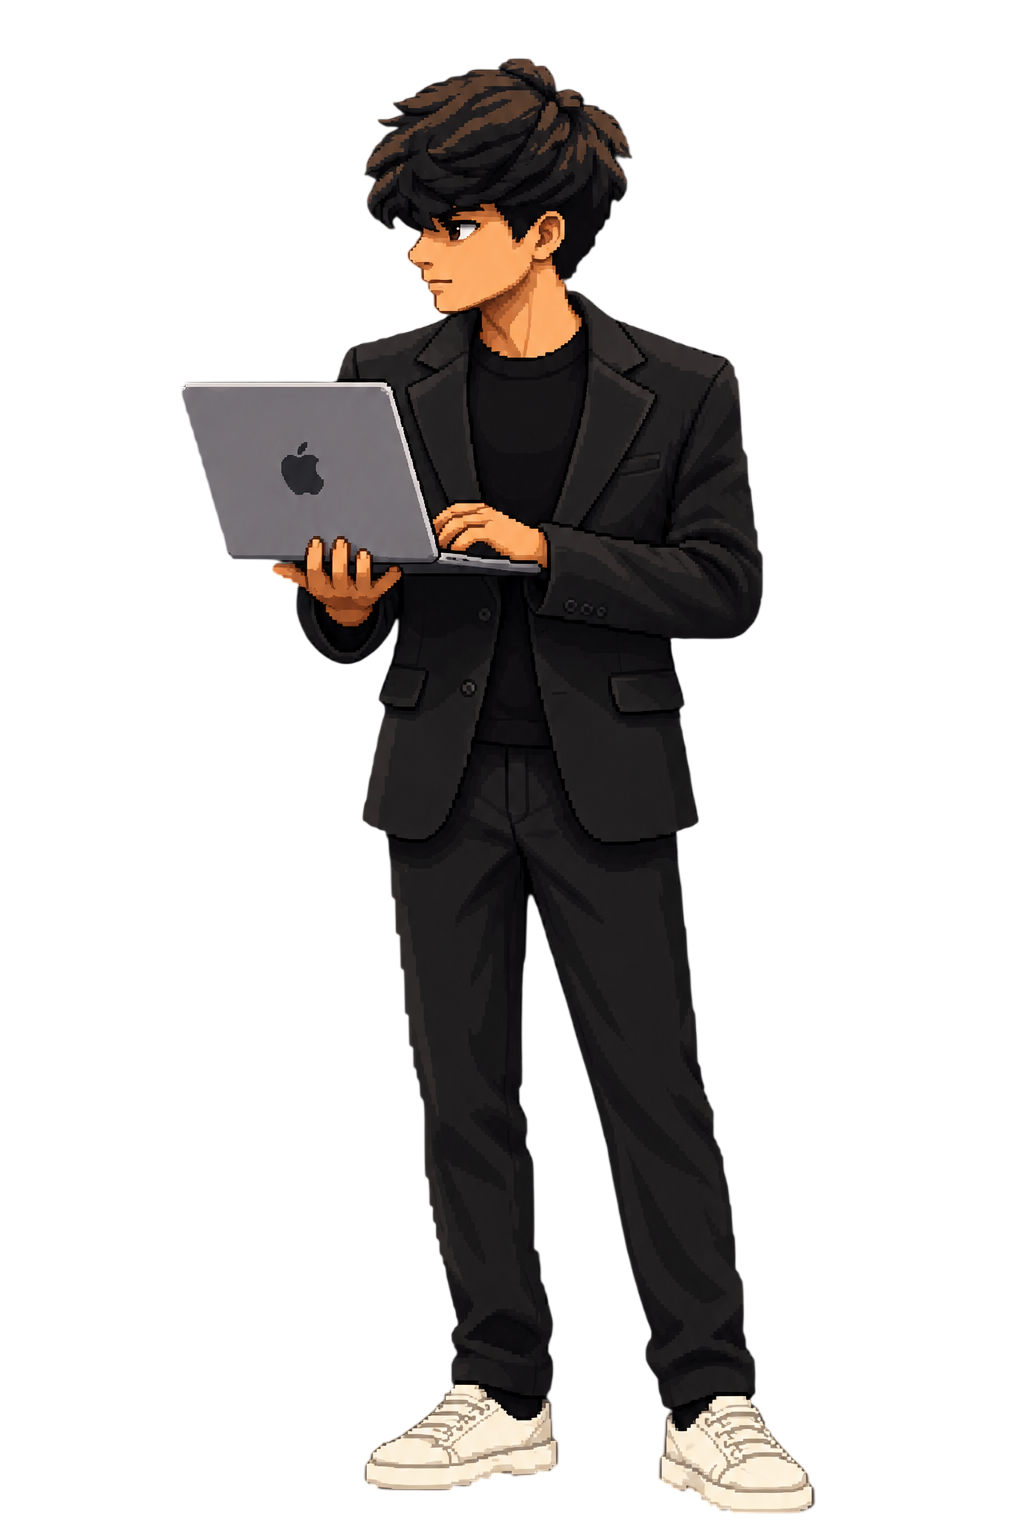
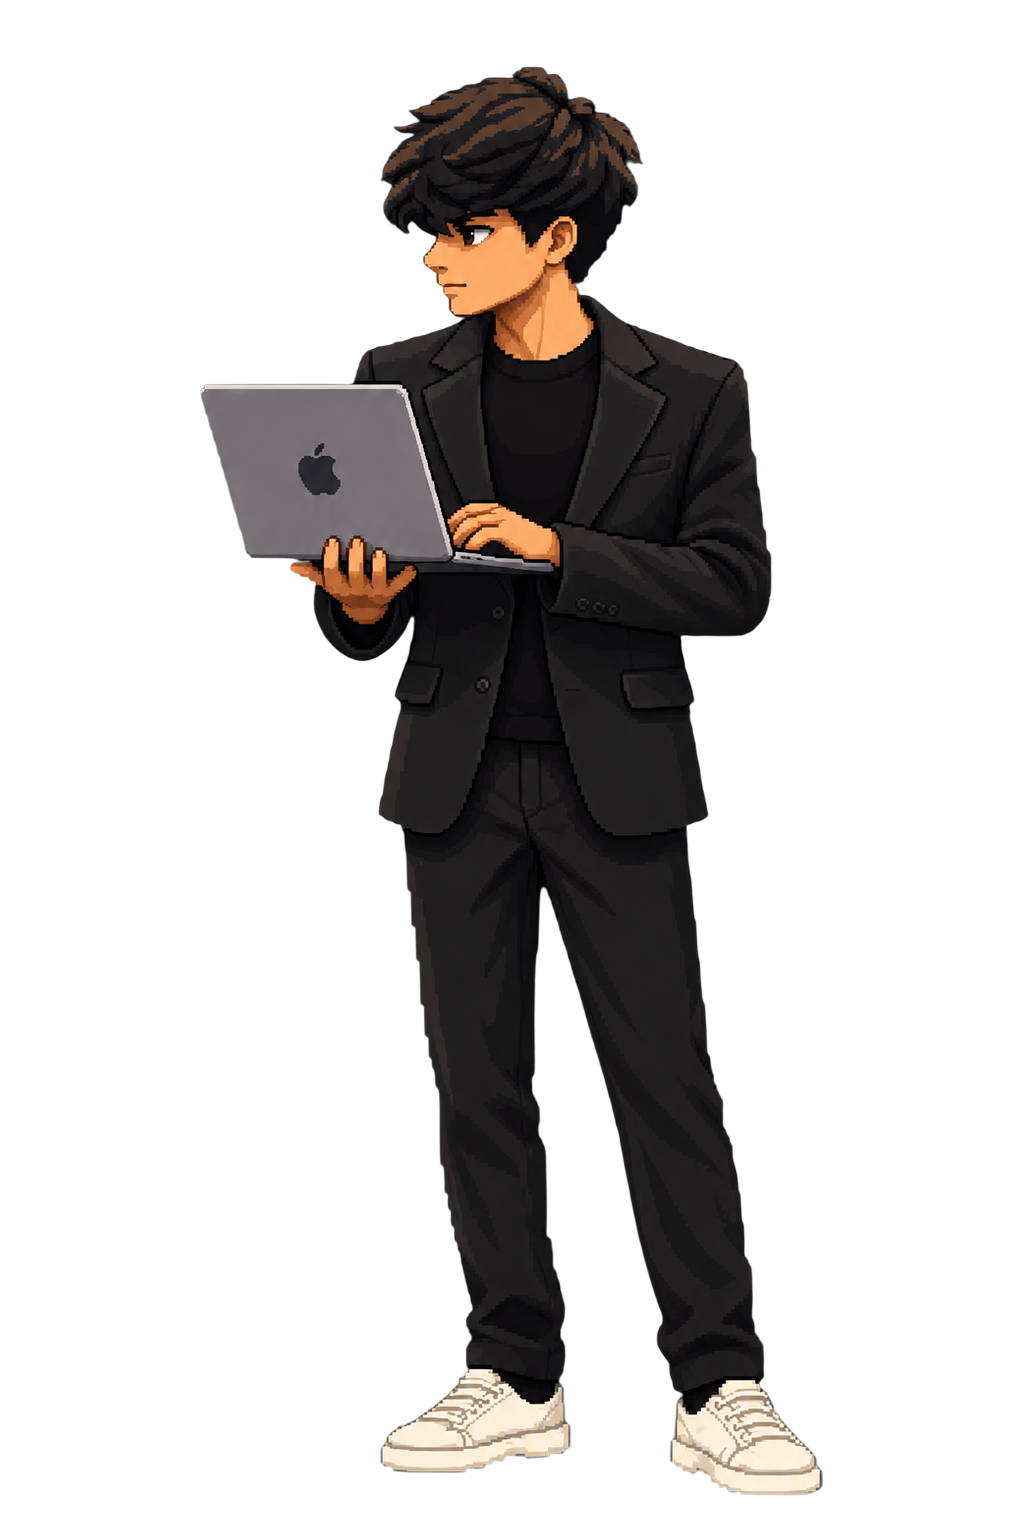
fix(approach): lock identical placement, dimensions, and baseline for all character images

diff --git a/src/components/ApproachTimeline.tsx b/src/components/ApproachTimeline.tsx
@@ -261,8 +261,8 @@ export default function ApproachTimeline({
               }}
             >
               <div className="relative w-full h-full p-8 sm:p-14 md:p-20 flex flex-col justify-between box-border overflow-hidden">
-                {/* ── Top-Right Section: Raw Text Directly on Background + Character Illustration Below Para ── */}
-                <div className="self-end max-w-[480px] w-full text-left z-20 pt-4 sm:pt-6 md:pt-8 flex flex-col items-start">
+                {/* ── Top-Right Section: Raw Text Directly on Background ── */}
+                <div className="self-end max-w-[480px] w-full text-left z-20 pt-4 sm:pt-6 md:pt-8 flex flex-col items-start min-h-[130px] sm:min-h-[150px]">
                   <span
                     className="block text-xs sm:text-sm font-mono font-medium uppercase tracking-widest mb-3 sm:mb-4 select-none"
                     style={{ color: s.eyebrowColor }}
@@ -279,20 +279,29 @@ export default function ApproachTimeline({
                   >
                     {s.desc}
                   </p>
-
-                  {/* Character Illustration directly below the paragraph */}
-                  {s.image && (
-                    <div className="mt-4 sm:mt-6 md:mt-8 flex justify-center w-full pointer-events-none select-none">
-                      <img
-                        src={s.image}
-                        alt={s.imageAlt || s.eyebrow}
-                        className="h-[32vh] sm:h-[40vh] md:h-[46vh] max-h-[440px] min-h-[200px] w-auto object-contain drop-shadow-[0_16px_32px_rgba(0,0,0,0.18)] transition-transform duration-500 hover:scale-105"
-                        loading="eager"
-                        draggable={false}
-                      />
-                    </div>
-                  )}
                 </div>
+
+                {/* ── Character Illustration: Locked in the EXACT same position across all 5 panels ── */}
+                {s.image && (
+                  <div
+                    className="absolute z-20 pointer-events-none select-none flex items-end justify-center"
+                    style={{
+                      right: "clamp(2rem, 5vw, 6rem)",
+                      bottom: "clamp(1rem, 2.5vh, 2.5rem)",
+                      width: "clamp(240px, 24vw, 360px)",
+                      height: "clamp(260px, 45vh, 460px)",
+                      aspectRatio: "1024 / 1536",
+                    }}
+                  >
+                    <img
+                      src={s.image}
+                      alt={s.imageAlt || s.eyebrow}
+                      className="w-full h-full object-contain drop-shadow-[0_16px_32px_rgba(0,0,0,0.18)]"
+                      loading="eager"
+                      draggable={false}
+                    />
+                  </div>
+                )}
 
                 {/* ── Bottom-Left Section: Non-Bold Poppins Big Numbers (01 - 05) ── */}
                 <div className="absolute left-8 sm:left-14 md:left-20 bottom-4 sm:bottom-8 md:bottom-12 z-10 pointer-events-none select-none">
